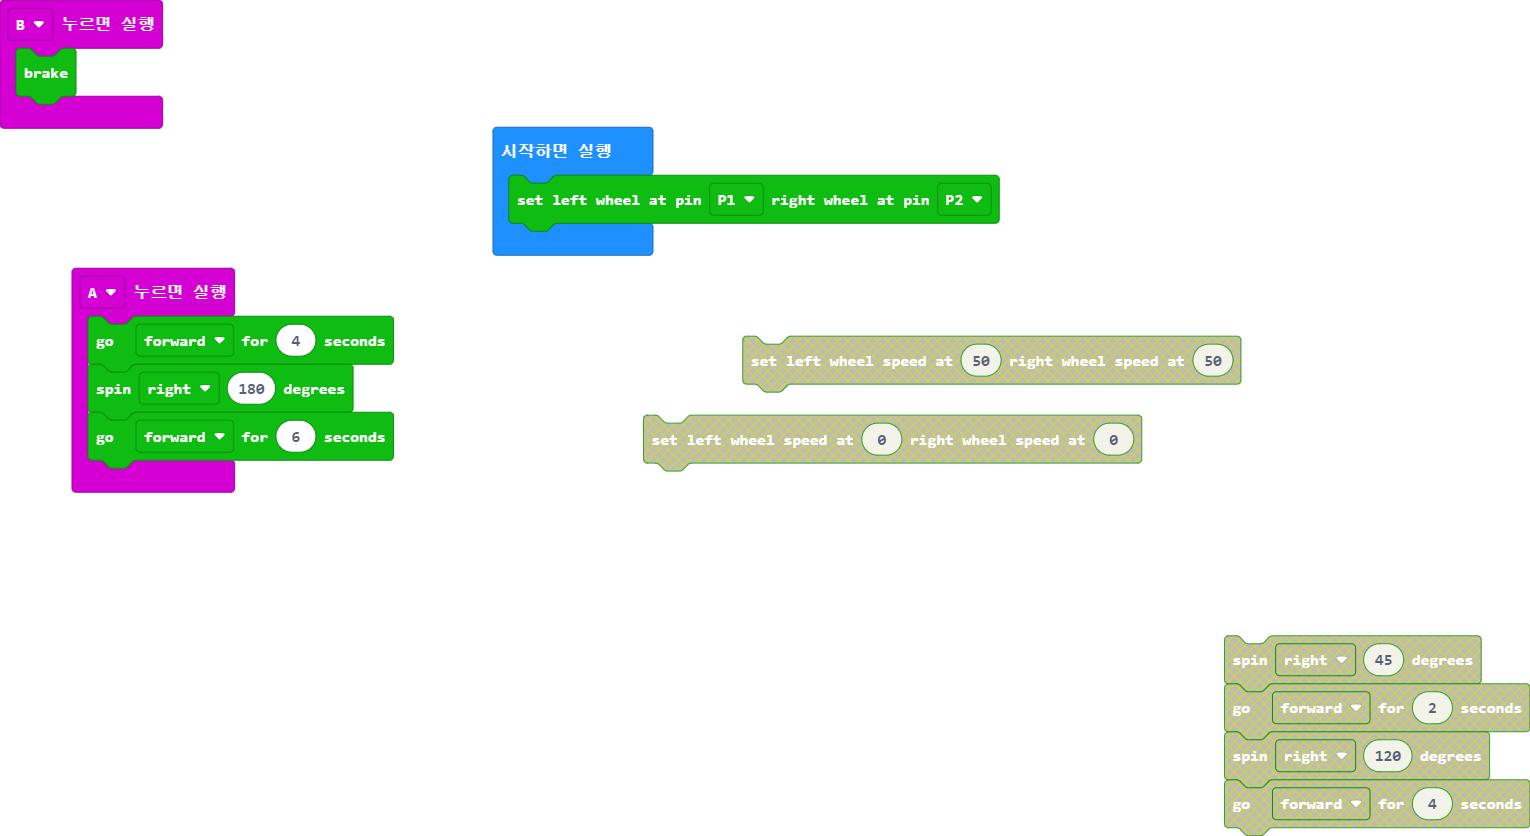
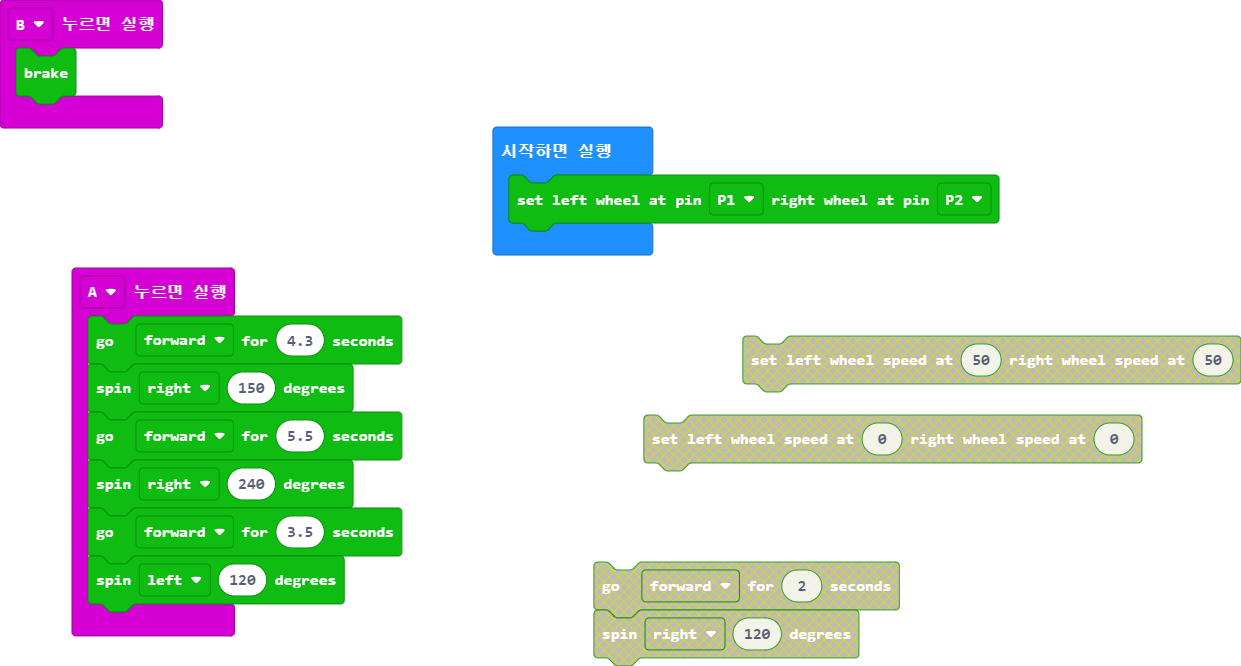
main.blocks, main.ts 업데이트하기

diff --git a/main.ts b/main.ts
@@ -1,7 +1,10 @@
 input.onButtonPressed(Button.A, function () {
-    RingbitCar.running_time(RingbitCar.Direction_run.forward, 4)
-    RingbitCar.steering_angle(RingbitCar.Direction_turn.right, 180)
-    RingbitCar.running_time(RingbitCar.Direction_run.forward, 6)
+    RingbitCar.running_time(RingbitCar.Direction_run.forward, 4.3)
+    RingbitCar.steering_angle(RingbitCar.Direction_turn.right, 150)
+    RingbitCar.running_time(RingbitCar.Direction_run.forward, 5.5)
+    RingbitCar.steering_angle(RingbitCar.Direction_turn.right, 240)
+    RingbitCar.running_time(RingbitCar.Direction_run.forward, 3.5)
+    RingbitCar.steering_angle(RingbitCar.Direction_turn.left, 120)
 })
 input.onButtonPressed(Button.B, function () {
     RingbitCar.brake()
